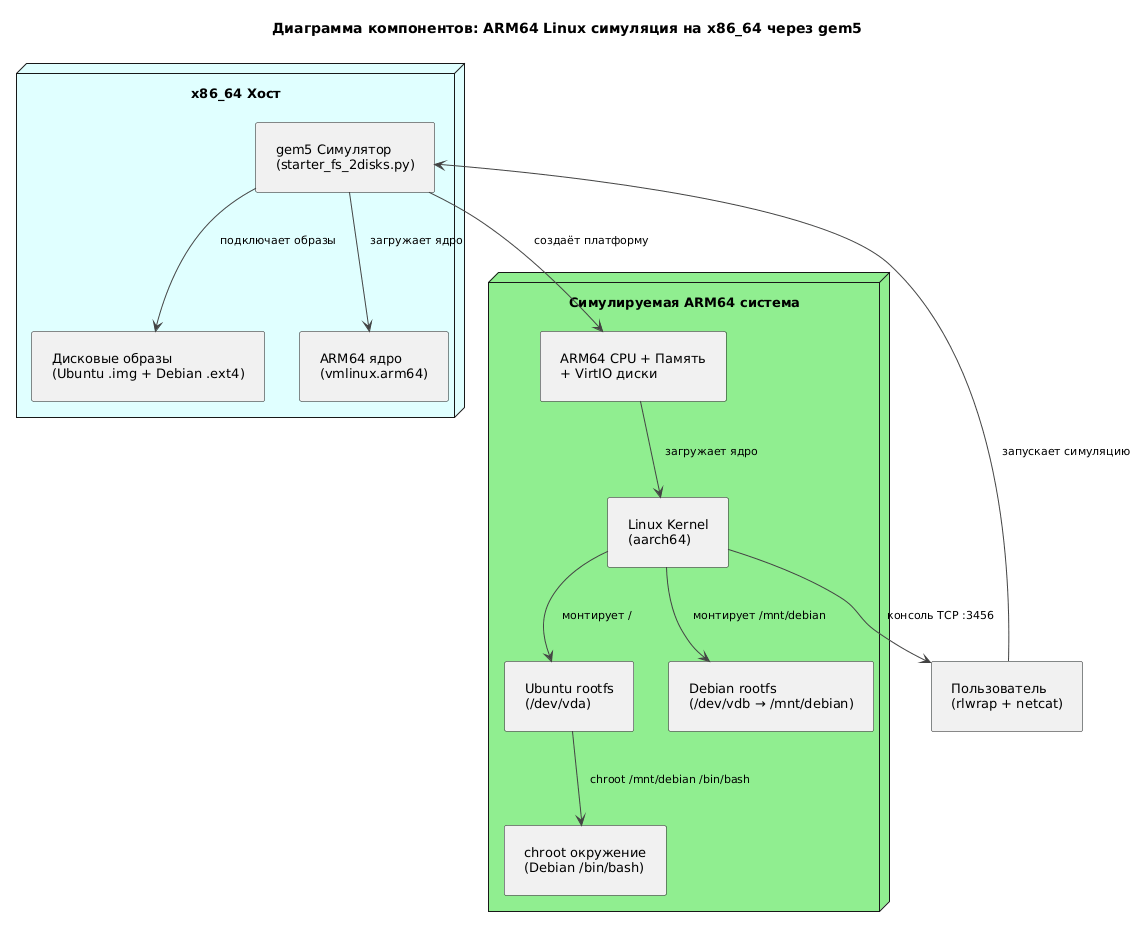
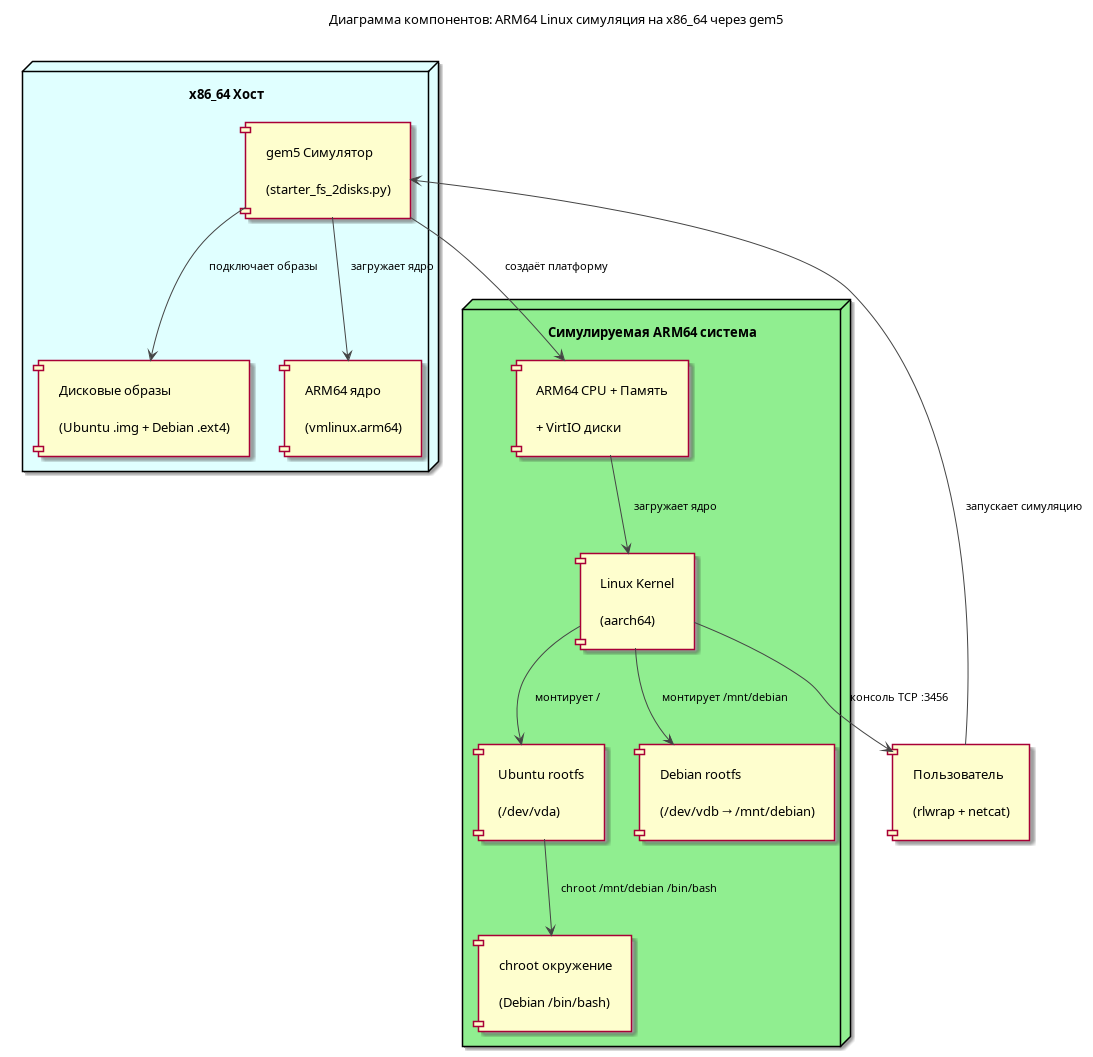
refactor slides, add diagram slide

diff --git a/main.tex b/main.tex
@@ -9,6 +9,7 @@
 \usepackage{hyperref}
 \usepackage[normalem]{ulem}
 \usepackage{listings}
+\usepackage{fancyvrb}
 \usepackage{colortbl}
 \usepackage{tabularx}
 \usepackage{booktabs}
@@ -83,43 +84,6 @@
 \end{enumerate}
 \end{frame}
 
-% Slide 3
-\begin{frame}[shrink=5]
-\frametitle{Требования к~гостевой системе}
-\begin{enumerate}
-    \item Запуск ARM64 Linux Kernel в режиме full-system симуляции.
-    \item Запуск основной ARM64-системы с Ubuntu rootfs.
-    \item Подключение второго виртуального диска с Debian ARM64 rootfs.
-    \item Обнаружение и монтирование второго диска внутри гостевой системы.
-    \item Подготовка системных точек монтирования для chroot: \texttt{/dev,/proc,/sys,/run}.
-    \item Запуск Debian chroot-окружения внутри ARM64 Linux.
-    \item Проверка архитектуры и пользовательского пространства внутри chroot.
-    \item Интерактивная работа через последовательную консоль.
-    \item Возможность изменения параметров симуляции: CPU, память, ядра, диски.
-\end{enumerate}
-\end{frame}
-
-% Slide 4
-\begin{frame}[shrink=10]
-\frametitle{Нефункциональные требования}
-\begin{enumerate}
-    \item Повторный запуск симуляции должен приводить к одинаковым результатам при одинаковой конфигурации.
-    \item Реализация должна запускаться на стандартной x86\_64 Linux-системе без специализированного ARM-оборудования.
-    \item Подготовка Debian ARM64 rootfs должна быть воспроизводимой на x86\_64-хосте.
-    \item Файл-образ Debian rootfs должен быть переносимым и подключаемым к gem5 как отдельный виртуальный диск.
-    \item Конфигурация симуляции должна позволять дальнейшее добавление:
-    \begin{itemize}
-        \item новых образов ОС;
-        \item дополнительных виртуальных дисков;
-        \item других моделей CPU;
-        \item архитектурных экспериментов.
-    \end{itemize}
-    \item Решение должно обеспечивать возможность получения отладочной информации и логов работы системы.
-    \item Запуск должен поддерживать дальнейшую автоматизацию без ручного вмешательства.
-    \item Структура решения должна быть пригодна для последующей контейнеризации.
-\end{enumerate}
-\end{frame}
-
 % Slide 5
 \begin{frame}
 \frametitle{Обзор существующих подходов}
@@ -145,6 +109,37 @@
 \end{frame}
 
 % Slide 6
+\begin{frame}[shrink=10]
+\frametitle{Требования к ARM64 full-system симуляции в gem5}
+
+\textbf{Функциональные требования}
+\begin{itemize}
+    \item Запуск ARM64 Linux Kernel в full-system режиме
+    \item Ubuntu rootfs как основная ARM64-система
+    \item Debian ARM64 rootfs как второй виртуальный диск
+    \item Обнаружение и монтирование второго диска
+    \item Запуск Debian через chroot
+    \item Подготовка /dev, /proc, /sys, /run
+    \item Проверка архитектуры внутри chroot
+    \item Работа через serial console
+    \item Настройка CPU, RAM, ядер и дисков
+\end{itemize}
+
+\textbf{Нефункциональные требования}
+\begin{itemize}
+    \item Воспроизводимый запуск при одинаковой конфигурации
+    \item Работа на x86\_64 без ARM-оборудования
+    \item Воспроизводимая подготовка Debian rootfs
+    \item Переносимый образ Debian rootfs
+    \item Возможность добавления новых ОС, дисков и CPU-моделей
+    \item Поддержка логов, отладки и автоматизации
+    \item Структура, пригодная для контейнеризации
+\end{itemize}
+
+Почему gem5: моделирует не только запуск ОС, но и архитектуру процессора: CPU pipeline, cache, memory subsystem и устройства.
+\end{frame}
+
+% Slide 7
 \begin{frame}
 \frametitle{Обоснование выбора симулятора gem5}
 \begin{enumerate}
@@ -179,23 +174,10 @@
 \end{enumerate}
 \end{frame}
 
-% Slide 8
-\begin{frame}[fragile]
-\frametitle{Подготовка окружения}
-\begin{lstlisting}[basicstyle=\small\ttfamily,frame=none]
-$M5_PATH/
-|-- binaries/
-|   |-- boot.arm
-|   |-- boot.arm64
-|   `-- vmlinux.arm64
-`-- disks/
-    `-- ubuntu-18.04-arm64-docker.img
-\end{lstlisting}
-\medskip
-\textbf{Переменная окружения:}
-\begin{lstlisting}[basicstyle=\small\ttfamily,frame=none]
-EXPORT M5_PATH=$HOME/m5/system
-\end{lstlisting}
+\begin{frame}
+\frametitle{Диаграмма компонентов}
+\centering
+\includegraphics[width=\textwidth,height=0.82\textheight,keepaspectratio]{component-diagram.png}
 \end{frame}
 
 % Slide 9
@@ -319,22 +301,75 @@ aarch64
 \end{itemize}
 \end{frame}
 
-% Slide 15
+% Slide 16
+% Slide 17
+% Slide 18
+\begin{frame}[shrink=5]
+\frametitle{Выводы}
+\begin{itemize}
+    \item Full-system симуляция ARM64 Linux в gem5 была успешно расширена подключением второго виртуального диска.
+    \item Основной Ubuntu rootfs используется для загрузки гостевой ARM64-системы.
+    \item Дополнительный Debian ARM64 rootfs подключается как отдельный VirtIO-диск.
+    \item Для этого стандартный starter\_fs.py был модифицирован в starter\_fs\_2disks.py.
+    \item В модифицированном скрипте добавлены параметр \texttt{--disk-image2} и логика подключения второго VirtIO block device.
+    \item Внутри гостевой системы второй диск был обнаружен, смонтирован и использован для запуска Debian chroot-окружения.
+    \item Успешная проверка \texttt{cat /etc/os-release}, \texttt{uname -m} и \texttt{whoami} подтвердила работу Debian userland на архитектуре aarch64.
+\end{itemize}
+\end{frame}
+
+\begin{frame}[shrink=5]
+\frametitle{Требования к~гостевой системе}
+\begin{enumerate}
+    \item Запуск ARM64 Linux Kernel в режиме full-system симуляции.
+    \item Запуск основной ARM64-системы с Ubuntu rootfs.
+    \item Подключение второго виртуального диска с Debian ARM64 rootfs.
+    \item Обнаружение и монтирование второго диска внутри гостевой системы.
+    \item Подготовка системных точек монтирования для chroot: \texttt{/dev,/proc,/sys,/run}.
+    \item Запуск Debian chroot-окружения внутри ARM64 Linux.
+    \item Проверка архитектуры и пользовательского пространства внутри chroot.
+    \item Интерактивная работа через последовательную консоль.
+    \item Возможность изменения параметров симуляции: CPU, память, ядра, диски.
+\end{enumerate}
+\end{frame}
+
+\begin{frame}[shrink=10]
+\frametitle{Нефункциональные требования}
+\begin{enumerate}
+    \item Повторный запуск симуляции должен приводить к одинаковым результатам при одинаковой конфигурации.
+    \item Реализация должна запускаться на стандартной x86\_64 Linux-системе без специализированного ARM-оборудования.
+    \item Подготовка Debian ARM64 rootfs должна быть воспроизводимой на x86\_64-хосте.
+    \item Файл-образ Debian rootfs должен быть переносимым и подключаемым к gem5 как отдельный виртуальный диск.
+    \item Конфигурация симуляции должна позволять дальнейшее добавление:
+    \begin{itemize}
+        \item новых образов ОС;
+        \item дополнительных виртуальных дисков;
+        \item других моделей CPU;
+        \item архитектурных экспериментов.
+    \end{itemize}
+    \item Решение должно обеспечивать возможность получения отладочной информации и логов работы системы.
+    \item Запуск должен поддерживать дальнейшую автоматизацию без ручного вмешательства.
+    \item Структура решения должна быть пригодна для последующей контейнеризации.
+\end{enumerate}
+\end{frame}
+
 \begin{frame}[fragile]
-\frametitle{Запуск симуляции с двумя дисками}
-\begin{lstlisting}[basicstyle=\scriptsize\ttfamily,frame=none,breaklines=true,breakatwhitespace=false]
-./build/ARM/gem5.opt \
-    configs/example/arm/starter_fs_2disks.py \
-    --kernel "$M5_PATH/binaries/vmlinux.arm64" \
-    --disk-image "$M5_PATH/disks/ubuntu-18.04-arm64-docker.img" \
-    --disk-image2 "$M5_PATH/disks/debian-arm64.ext4" \
-    --cpu atomic \
-    --num-cores 1 \
-    --mem-size 2GB
+\frametitle{Подготовка окружения}
+\begin{lstlisting}[basicstyle=\small\ttfamily,frame=none]
+$M5_PATH/
+|-- binaries/
+|   |-- boot.arm
+|   |-- boot.arm64
+|   `-- vmlinux.arm64
+`-- disks/
+    `-- ubuntu-18.04-arm64-docker.img
+\end{lstlisting}
+\medskip
+\textbf{Переменная окружения:}
+\begin{lstlisting}[basicstyle=\small\ttfamily,frame=none]
+EXPORT M5_PATH=$HOME/m5/system
 \end{lstlisting}
 \end{frame}
 
-% Slide 16
 \begin{frame}[fragile]
 \frametitle{Подключение к системе и проверка дисков}
 \begin{lstlisting}[basicstyle=\small\ttfamily,frame=none]
@@ -354,7 +389,6 @@ bin boot dev etc home \ldots%
 Это позволило подготовить chroot-окружение внутри ARM64-гостя.
 \end{frame}
 
-% Slide 17
 \begin{frame}[fragile]
 \frametitle{Запуск chroot внутри ARM64-гостя}
 \begin{lstlisting}[basicstyle=\small\ttfamily,frame=none]
@@ -369,18 +403,18 @@ chroot /mnt/debian /bin/bash
 \end{lstlisting}
 \end{frame}
 
-% Slide 18
-\begin{frame}[shrink=5]
-\frametitle{Выводы}
-\begin{itemize}
-    \item Full-system симуляция ARM64 Linux в gem5 была успешно расширена подключением второго виртуального диска.
-    \item Основной Ubuntu rootfs используется для загрузки гостевой ARM64-системы.
-    \item Дополнительный Debian ARM64 rootfs подключается как отдельный VirtIO-диск.
-    \item Для этого стандартный starter\_fs.py был модифицирован в starter\_fs\_2disks.py.
-    \item В модифицированном скрипте добавлены параметр \texttt{--disk-image2} и логика подключения второго VirtIO block device.
-    \item Внутри гостевой системы второй диск был обнаружен, смонтирован и использован для запуска Debian chroot-окружения.
-    \item Успешная проверка \texttt{cat /etc/os-release}, \texttt{uname -m} и \texttt{whoami} подтвердила работу Debian userland на архитектуре aarch64.
-\end{itemize}
+\begin{frame}[fragile]
+\frametitle{Запуск симуляции с двумя дисками}
+\begin{lstlisting}[basicstyle=\scriptsize\ttfamily,frame=none,breaklines=true,breakatwhitespace=false]
+./build/ARM/gem5.opt \
+    configs/example/arm/starter_fs_2disks.py \
+    --kernel "$M5_PATH/binaries/vmlinux.arm64" \
+    --disk-image "$M5_PATH/disks/ubuntu-18.04-arm64-docker.img" \
+    --disk-image2 "$M5_PATH/disks/debian-arm64.ext4" \
+    --cpu atomic \
+    --num-cores 1 \
+    --mem-size 2GB
+\end{lstlisting}
 \end{frame}
 
 \end{document}
